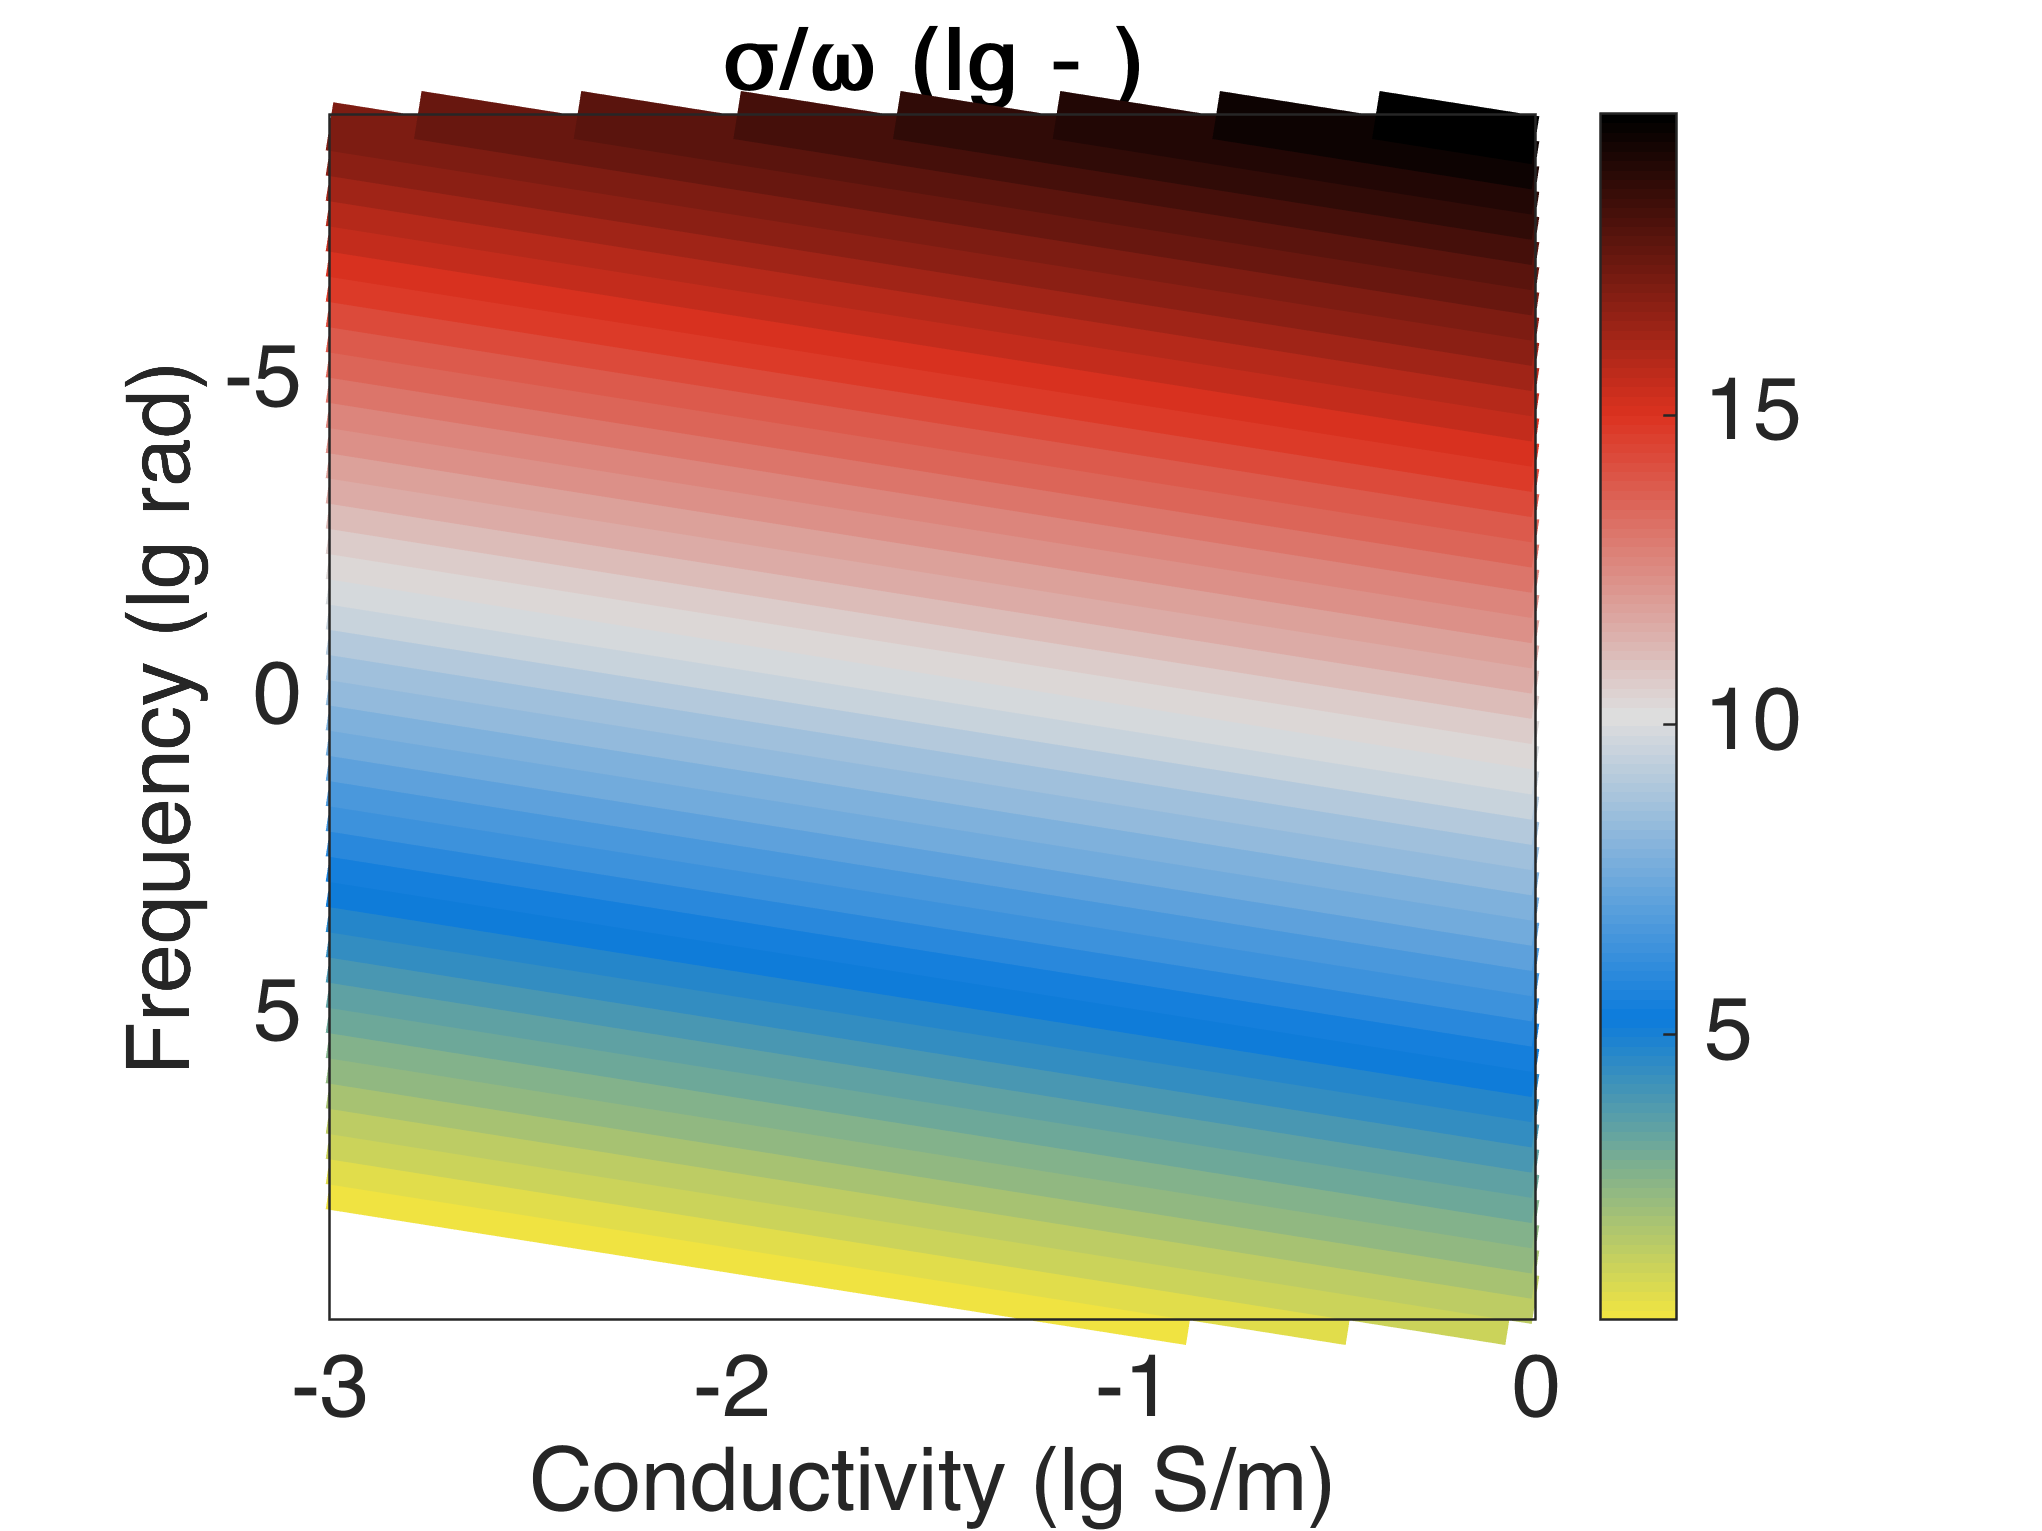
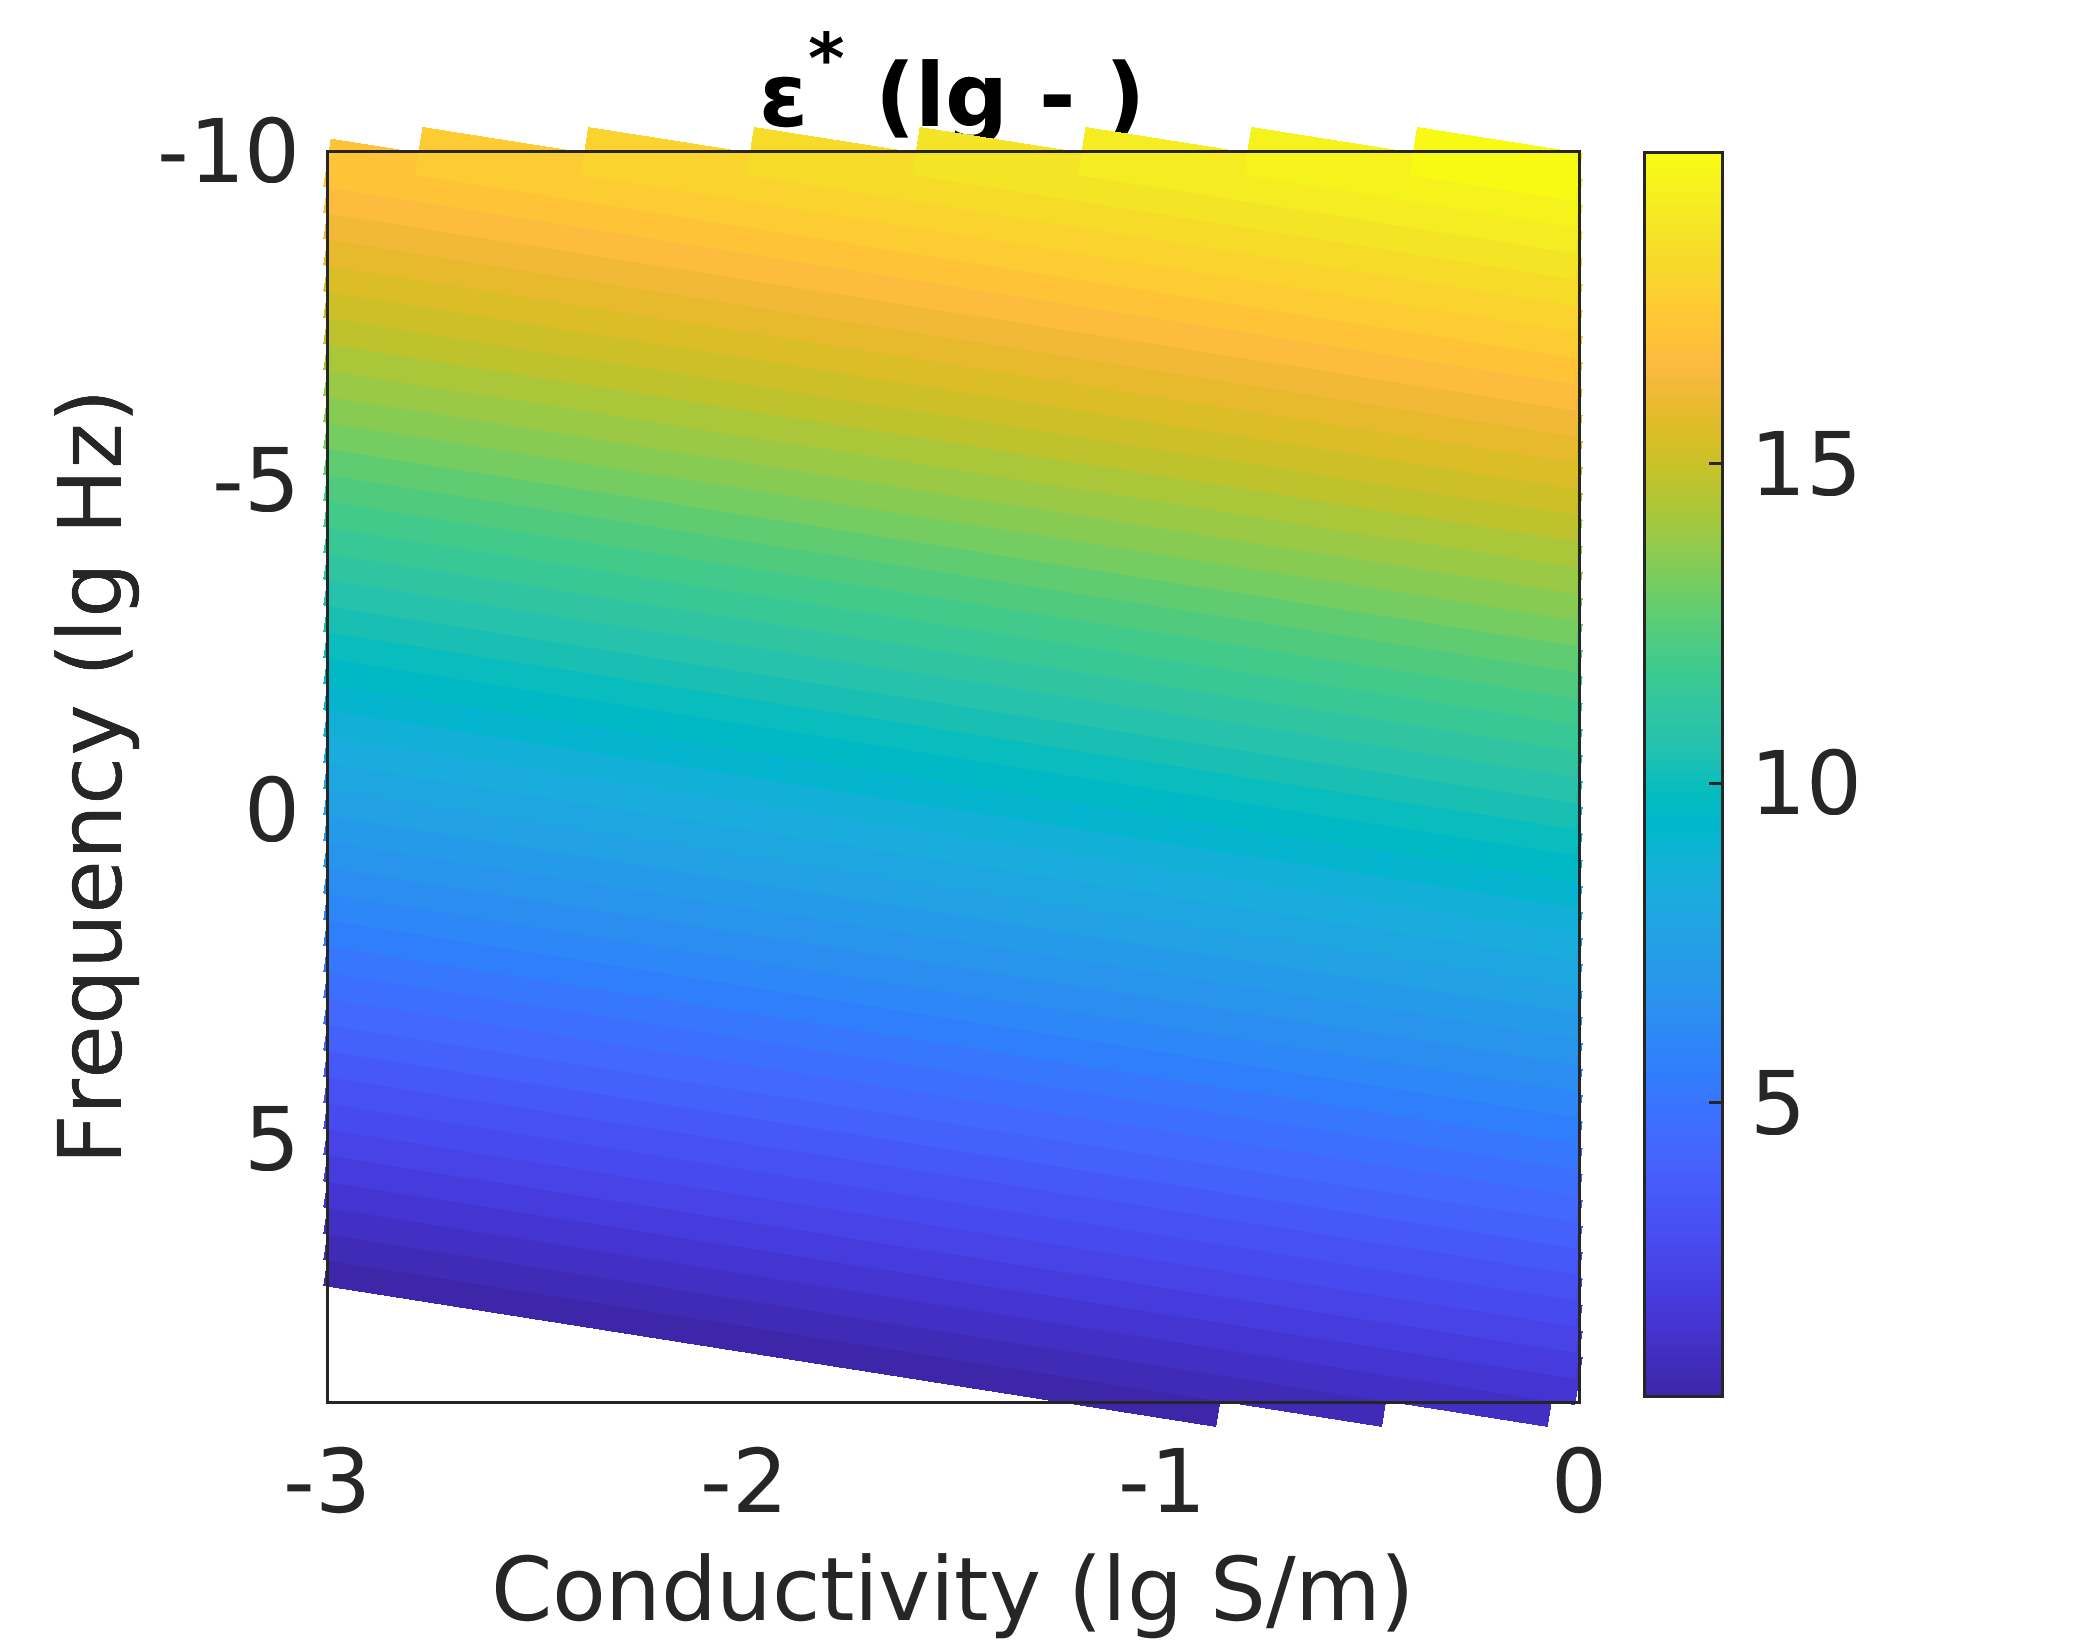
💭

diff --git a/projects/pdes/em-wavediffu/emwa2di.m b/projects/pdes/em-wavediffu/emwa2di.m
@@ -2,7 +2,7 @@ close all
 clear
 clc
 % ------------------------------------------------------------------------------
-fprintf('\n\n\n                                   🤔🤔🤔 \n            is the propagation diffusive 🌼 and the media conductive ⚡? \n                                   🤔🤔🤔 \n\n\n\n')
+fprintf('\n\n\n                                   🤔🤔🤔 \n\n            is the propagation diffusive 🌼 and the media conductive ⚡? \n                                   🤔🤔🤔 \n\n\n\n')
 % ------------------------------------------------------------------------------
 % is EM wave propagation asymptotically equal to diffusion?
 % if this happens then yes,
@@ -25,8 +25,8 @@ v = c/sqrt(epso);
 % ------------------------------------------------------------------------------
 % t = logspace(-11,-9,1e3); % s
 % t = logspace(-11,-8,1e3); % s
-t = logspace(-9,-3,1e3); % s
-sig = logspace(-3,0,1e3); % S/m
+t = logspace(-9,0,1e3); % s
+sig = logspace(-3,2,1e3); % S/m
 
 [sig_,t_] = meshgrid(sig,t);
 % ------------------------------------------------------------------------------
@@ -34,14 +34,27 @@ sig = logspace(-3,0,1e3); % S/m
 %
 %                         let R_ = √(v² ⋅ (t² - 4ε²/σ²))
 % ------------------------------------------------------------------------------
-% if R_ is large and positive, then it is diffusion
-% if R_ is small and positive, then it is on the edge of being a wave
-% if R_ is negative, then it is a wave 💯
+% if R_  is large and positive, then it is diffusion
+% if R_  is small and positive, then it is on the edge of being a wave
+% if R_² is negative, then it is a wave 💯
 % 🚨🚨 large & small compared to closest offset rx.
+% ------------------------------------------------------------------------------
+% another easier way to see it 👌
+% 
+%                     ρ = v² ⋅ (t² - 4ε²/σ²)
+% 
+% ρ is either large, small, or negative.
+% since 2ɛ is about 10⁻¹¹,
+%                          tσ - 10⁻¹¹ >> 0  ⥰ diffusion
+%                          tσ - 10⁻¹¹  > 0  ⥰ wavey diffusion
+%                          tσ - 10⁻¹¹  < 0  ⥰ wave
 % ------------------------------------------------------------------------------
 R_ = v^2 * (t_.^2 - (4*eps^2)./(sig_.^2));
 R_(find(R_(:)<0)) = NaN;
 R_ = sqrt(R_);
+
+rho = t_.*sig_ - 2*eps;
+rho(find(rho(:)<0)) = NaN;
 % ------------------------------------------------------------------------------
 %                                  🎨🎨🎨🎨
 % ------------------------------------------------------------------------------
@@ -49,11 +62,22 @@ figure;
 contour(log10(sig),log10(t),log10(R_),50,'linewidth',10);
 axis square;
 axis ij;
-colormap(rainbow2_cb(1));
+% colormap(rainbow2_cb(1));
 colorbar;
 ylabel('Time (lg s)')
 xlabel('Conductivity (lg S/m)')
-title('√(v²t² - 4v²ε²/σ²) (lg m)')
+title('r^* (lg m)')
+simple_figure()
+
+figure;
+contour(log10(sig),log10(t),log10(rho),50,'linewidth',8);
+axis square;
+axis ij;
+% colormap(rainbow2_cb(1));
+colorbar;
+ylabel('Time (lg s)')
+xlabel('Conductivity (lg S/m)')
+title('ρ-2ɛ (lg - )')
 simple_figure()
 % ------------------------------------------------------------------------------
 % is the media a poor conductor or a good conductor?
@@ -80,13 +104,13 @@ epsis(find(epsis(:)<1)) = NaN;
 %                                  🎨🎨🎨🎨
 % ------------------------------------------------------------------------------
 figure;
-contour(log10(sig),log10(omegs),log10(epsis),50,'linewidth',10);
+contour(log10(sig),log10(freqs),log10(epsis),50,'linewidth',10);
 axis square;
 axis ij;
-colormap(rainbow2_cb(1));
+% colormap(rainbow2_cb(1));
 colorbar;
-ylabel('Frequency (lg rad)')
+ylabel('Frequency (lg Hz)')
 xlabel('Conductivity (lg S/m)')
-title('σ/ω (lg - )')
+title('ɛ^* (lg - )')
 simple_figure()
 % ------------------------------------------------------------------------------
